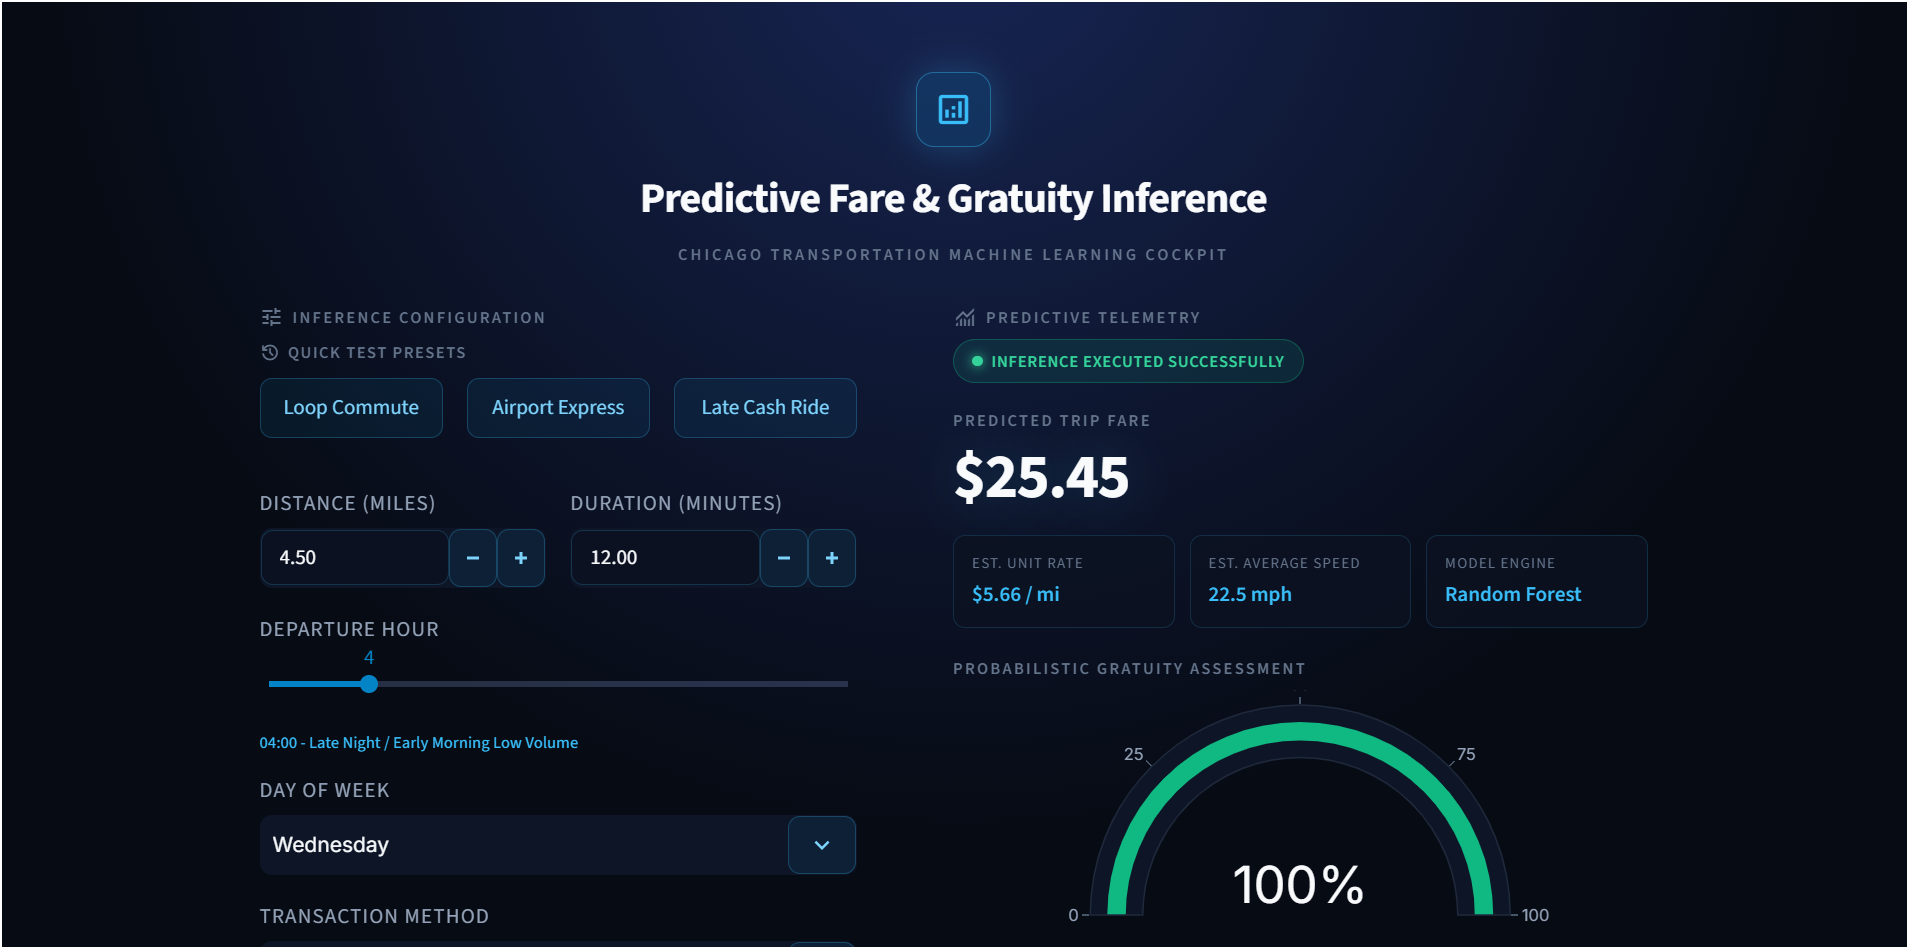
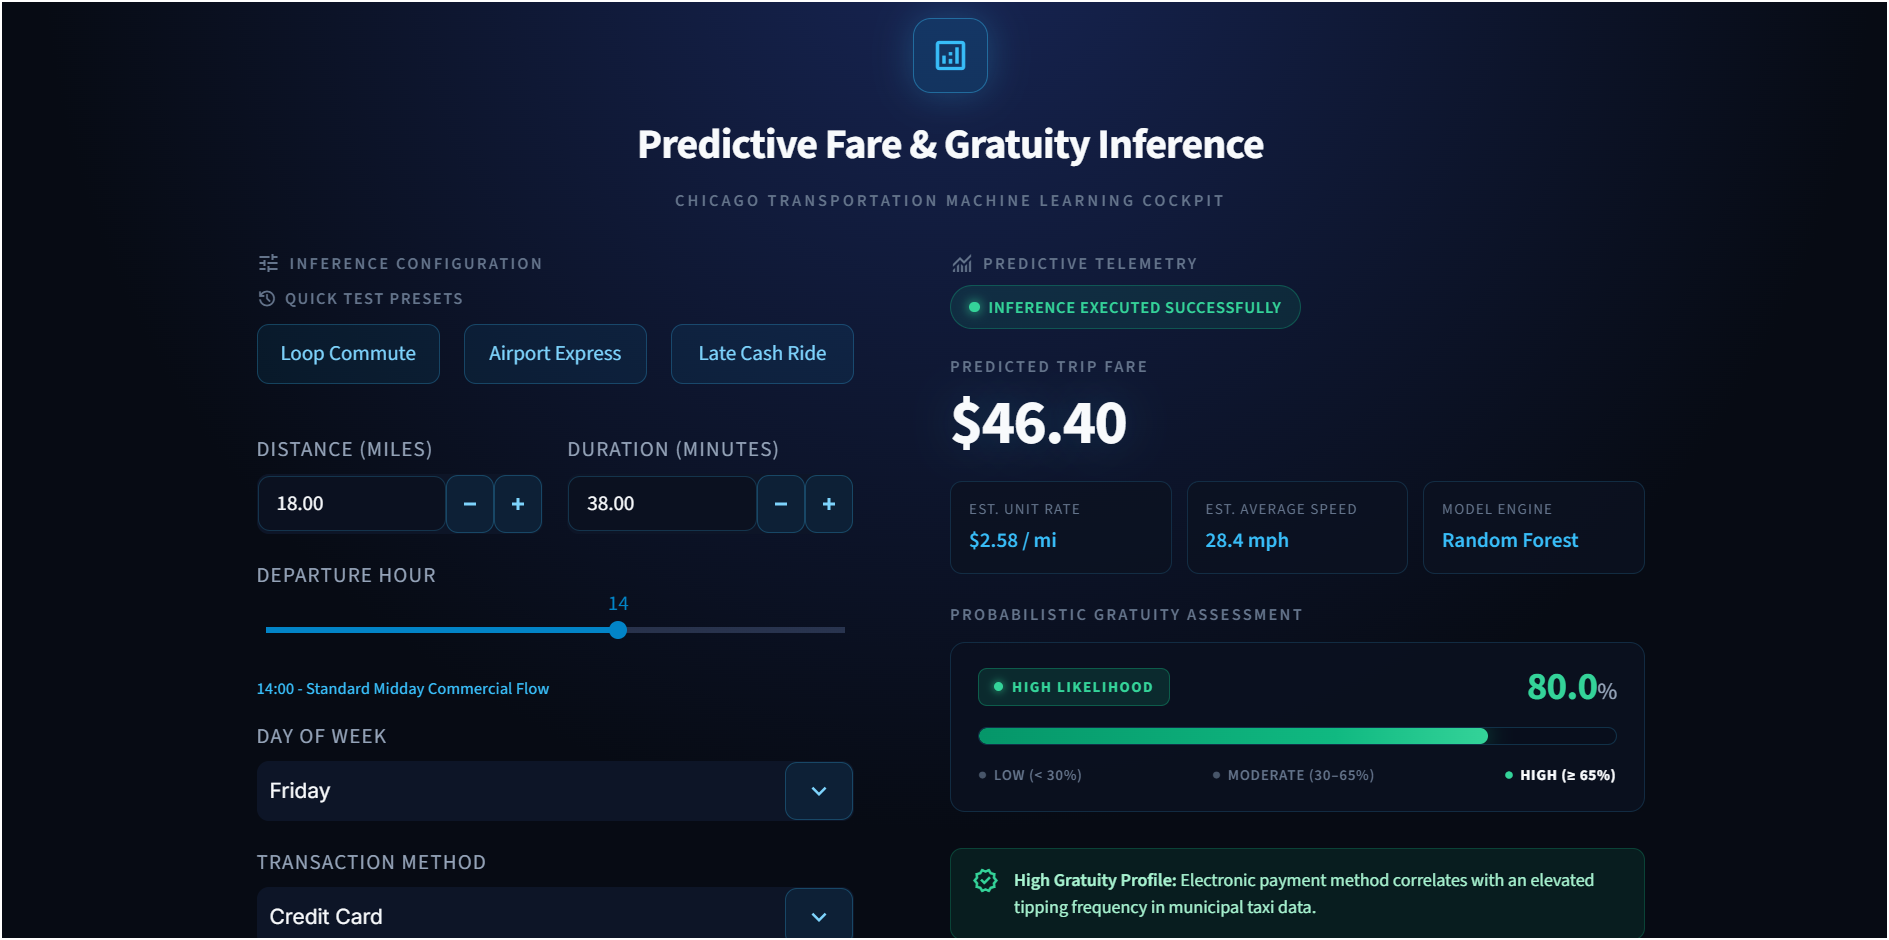
feat(ui): redesign gratuity confidence meter and update dashboard preview

diff --git a/.streamlit/app.py b/.streamlit/app.py
@@ -8,7 +8,7 @@ from pathlib import Path
 import streamlit as st
 import joblib
 import time
-import plotly.graph_objects as go
+import textwrap
 import warnings
 
 warnings.filterwarnings('ignore')
@@ -109,7 +109,7 @@ st.markdown("""
         font-weight: 600;
     }
 
-    /* Frosted Glass Cards with Vibrant Subtle Borders */
+    /* Frosted Glass Cards with Subtle Borders */
     div[data-testid="column"] > div {
         background: rgba(13, 21, 39, 0.85);
         border: 1px solid rgba(56, 189, 248, 0.2);
@@ -274,10 +274,110 @@ st.markdown("""
         box-shadow: 0 0 8px #34d399;
     }
 
+    /* Gratuity Confidence Meter Card */
+    .gratuity-card {
+        background: rgba(11, 17, 32, 0.85);
+        border: 1px solid rgba(56, 189, 248, 0.16);
+        border-radius: 10px;
+        padding: 16px 18px;
+        margin-top: 10px;
+        margin-bottom: 14px;
+    }
+
+    .gratuity-top-row {
+        display: flex;
+        justify-content: space-between;
+        align-items: center;
+        margin-bottom: 14px;
+    }
+
+    .gratuity-tier-tag {
+        font-size: 10px;
+        font-weight: 700;
+        letter-spacing: 1px;
+        padding: 4px 10px;
+        border-radius: 6px;
+        text-transform: uppercase;
+        display: inline-flex;
+        align-items: center;
+        gap: 6px;
+    }
+
+    .gratuity-tier-tag.high {
+        background: rgba(16, 185, 129, 0.15);
+        border: 1px solid rgba(16, 185, 129, 0.35);
+        color: #34d399;
+    }
+
+    .gratuity-tier-tag.moderate {
+        background: rgba(14, 165, 233, 0.15);
+        border: 1px solid rgba(56, 189, 248, 0.35);
+        color: #38bdf8;
+    }
+
+    .gratuity-tier-tag.low {
+        background: rgba(245, 158, 11, 0.15);
+        border: 1px solid rgba(245, 158, 11, 0.35);
+        color: #fbbf24;
+    }
+
+    .gratuity-score-large {
+        font-size: 26px;
+        font-weight: 700;
+        letter-spacing: -0.5px;
+        line-height: 1;
+    }
+
+    .meter-track-container {
+        width: 100%;
+        height: 12px;
+        background: #080e1c;
+        border: 1px solid rgba(56, 189, 248, 0.2);
+        border-radius: 999px;
+        overflow: hidden;
+        margin-top: 6px;
+        margin-bottom: 12px;
+        position: relative;
+    }
+
+    .meter-fill-bar {
+        height: 100%;
+        border-radius: 999px;
+        transition: width 0.5s ease-in-out;
+    }
+
+    .meter-tiers-row {
+        display: flex;
+        justify-content: space-between;
+        font-size: 10px;
+        color: #64748b;
+        font-weight: 600;
+        letter-spacing: 0.5px;
+        text-transform: uppercase;
+    }
+
+    .meter-tier-cell {
+        display: flex;
+        align-items: center;
+        gap: 4px;
+    }
+
+    .meter-tier-cell.active {
+        color: #f8fafc;
+        font-weight: 700;
+    }
+
+    .tier-indicator-dot {
+        width: 6px;
+        height: 6px;
+        border-radius: 50%;
+        display: inline-block;
+    }
+
     .insight-card {
         border-radius: 8px;
         padding: 12px 14px;
-        margin-top: 14px;
+        margin-top: 10px;
         display: flex;
         align-items: flex-start;
         gap: 10px;
@@ -437,21 +537,21 @@ with col2:
                 price_per_mile = predicted_fare / miles if miles > 0 else 0
                 est_speed_mph = (miles / (seconds / 3600)) if seconds > 0 else 0
 
-                st.markdown("""
+                st.markdown(textwrap.dedent("""
                 <div class="status-badge online">
                     <div class="status-dot"></div>
                     INFERENCE EXECUTED SUCCESSFULLY
                 </div>
-                """, unsafe_allow_html=True)
+                """).strip(), unsafe_allow_html=True)
 
                 # Base Fare Display
-                st.markdown(f"""
+                st.markdown(textwrap.dedent(f"""
                 <div class="output-label">Predicted Trip Fare</div>
                 <div class="output-value">${predicted_fare:.2f}</div>
-                """, unsafe_allow_html=True)
+                """).strip(), unsafe_allow_html=True)
 
                 # Telemetry Sub-Metrics
-                st.markdown(f"""
+                st.markdown(textwrap.dedent(f"""
                 <div class="telemetry-row">
                     <div class="telemetry-pill">
                         <div class="telemetry-pill-label">Est. Unit Rate</div>
@@ -466,116 +566,117 @@ with col2:
                         <div class="telemetry-pill-value">Random Forest</div>
                     </div>
                 </div>
-                """, unsafe_allow_html=True)
+                """).strip(), unsafe_allow_html=True)
 
-                # Gratuity Probability Gauge
-                st.markdown("<div class='output-label'>Probabilistic Gratuity Assessment</div>", unsafe_allow_html=True)
-                
-                # Dynamic gauge bar color according to prediction state
-                if payment_type == "Cash" or tip_prob < 15:
-                    bar_color = "#f59e0b" if payment_type == "Cash" else "#64748b"
+                # Gratuity Tier Classification and Styling
+                if payment_type == "Cash" or tip_prob < 20:
+                    tier_label = "Unlikely / Minimal"
+                    tier_class = "low"
+                    tier_color = "#fbbf24"
+                    fill_gradient = "linear-gradient(90deg, #d97706 0%, #f59e0b 100%)"
+                    glow_shadow = "0 0 14px rgba(245, 158, 11, 0.45)"
+                    active_idx = 0
                 elif tip_prob >= 65:
-                    bar_color = "#10b981"
+                    tier_label = "High Likelihood"
+                    tier_class = "high"
+                    tier_color = "#34d399"
+                    fill_gradient = "linear-gradient(90deg, #059669 0%, #10b981 70%, #34d399 100%)"
+                    glow_shadow = "0 0 16px rgba(16, 185, 129, 0.55)"
+                    active_idx = 2
                 else:
-                    bar_color = "#0284c7"
+                    tier_label = "Moderate Likelihood"
+                    tier_class = "moderate"
+                    tier_color = "#38bdf8"
+                    fill_gradient = "linear-gradient(90deg, #0284c7 0%, #38bdf8 100%)"
+                    glow_shadow = "0 0 14px rgba(56, 189, 248, 0.45)"
+                    active_idx = 1
 
-                fig = go.Figure(go.Indicator(
-                    mode="gauge+number",
-                    value=tip_prob,
-                    number={'suffix': "%", 'font': {'color': '#f8fafc', 'size': 34}},
-                    gauge={
-                        'axis': {
-                            'range': [0, 100], 
-                            'tickwidth': 1, 
-                            'tickcolor': "#475569", 
-                            'visible': True,
-                            'tickmode': 'array',
-                            'tickvals': [0, 25, 50, 75, 100],
-                            'tickfont': {'color': '#94a3b8', 'size': 11}
-                        },
-                        'bar': {'color': bar_color, 'thickness': 0.35},
-                        'bgcolor': "#0b1120",
-                        'borderwidth': 1,
-                        'bordercolor': "#1e293b",
-                        'steps': [
-                            {'range': [0, 100], 'color': 'rgba(15, 23, 42, 0.6)'}
-                        ]
-                    }
-                ))
-                
-                fig.update_layout(
-                    height=160, 
-                    margin=dict(l=10, r=10, t=10, b=10),
-                    paper_bgcolor="rgba(0,0,0,0)",
-                    font={'family': "Inter"}
-                )
-                
-                st.plotly_chart(fig, use_container_width=True, config={'displayModeBar': False})
+                fill_pct = max(min(tip_prob, 100.0), 3.0)
+
+                # Render HTML without markdown indentation issues
+                html_meter = f"""<div class="output-label">Probabilistic Gratuity Assessment</div>
+<div class="gratuity-card">
+<div class="gratuity-top-row">
+<div class="gratuity-tier-tag {tier_class}">
+<span class="tier-indicator-dot" style="background-color: {tier_color}; box-shadow: 0 0 6px {tier_color};"></span>
+{tier_label}
+</div>
+<div class="gratuity-score-large" style="color: {tier_color};">
+{tip_prob:.1f}<span style="font-size: 16px; font-weight: 500; color: #94a3b8;">%</span>
+</div>
+</div>
+<div class="meter-track-container">
+<div class="meter-fill-bar" style="width: {fill_pct:.1f}%; background: {fill_gradient}; box-shadow: {glow_shadow};"></div>
+</div>
+<div class="meter-tiers-row">
+<span class="meter-tier-cell {'active' if active_idx == 0 else ''}">
+<span style="color: {'#fbbf24' if active_idx == 0 else '#475569'};">●</span> Low (&lt; 30%)
+</span>
+<span class="meter-tier-cell {'active' if active_idx == 1 else ''}">
+<span style="color: {'#38bdf8' if active_idx == 1 else '#475569'};">●</span> Moderate (30–65%)
+</span>
+<span class="meter-tier-cell {'active' if active_idx == 2 else ''}">
+<span style="color: {'#34d399' if active_idx == 2 else '#475569'};">●</span> High (≥ 65%)
+</span>
+</div>
+</div>"""
+
+                st.markdown(html_meter, unsafe_allow_html=True)
 
                 # Behavioral Gratuity Insights
                 if payment_type == "Credit Card" and tip_prob >= 60:
-                    st.markdown("""
-                    <div class="insight-card tip-high">
-                        <span class="material-symbols-outlined" style="color: #34d399; font-size: 18px;">verified</span>
-                        <div><strong>High Gratuity Profile:</strong> Electronic payment method correlates with an elevated tipping frequency in municipal taxi data.</div>
-                    </div>
-                    """, unsafe_allow_html=True)
+                    st.markdown("""<div class="insight-card tip-high">
+<span class="material-symbols-outlined" style="color: #34d399; font-size: 18px;">verified</span>
+<div><strong>High Gratuity Profile:</strong> Electronic payment method correlates with an elevated tipping frequency in municipal taxi data.</div>
+</div>""", unsafe_allow_html=True)
                 elif payment_type == "Cash":
-                    st.markdown("""
-                    <div class="insight-card tip-low">
-                        <span class="material-symbols-outlined" style="color: #fbbf24; font-size: 18px;">payments</span>
-                        <div><strong>Cash Payment Notice:</strong> Gratuities on cash transactions are rarely captured in registry telemetry or have lower recorded rates.</div>
-                    </div>
-                    """, unsafe_allow_html=True)
+                    st.markdown("""<div class="insight-card tip-low">
+<span class="material-symbols-outlined" style="color: #fbbf24; font-size: 18px;">payments</span>
+<div><strong>Cash Payment Notice:</strong> Gratuities on cash transactions are rarely captured in registry telemetry or have lower recorded rates.</div>
+</div>""", unsafe_allow_html=True)
                 else:
-                    st.markdown("""
-                    <div class="insight-card tip-low">
-                        <span class="material-symbols-outlined" style="color: #94a3b8; font-size: 18px;">info</span>
-                        <div><strong>Standard Gratuity Profile:</strong> Moderate tip probability influenced by baseline distance and time of day.</div>
-                    </div>
-                    """, unsafe_allow_html=True)
+                    st.markdown("""<div class="insight-card tip-low">
+<span class="material-symbols-outlined" style="color: #94a3b8; font-size: 18px;">info</span>
+<div><strong>Standard Gratuity Profile:</strong> Moderate tip probability influenced by baseline distance and time of day.</div>
+</div>""", unsafe_allow_html=True)
 
         else:
             # Clean Idle State: Model Telemetry and System Specifications
-            st.markdown("""
-            <div class="status-badge online">
-                <div class="status-dot"></div>
-                SYSTEM READY - AWAITING PARAMETERS
-            </div>
-            
-            <div style="font-size: 13px; color: #94a3b8; margin-bottom: 22px; line-height: 1.6;">
-                Configure the route variables on the left panel or choose one of the predefined trip presets, then click <strong>Execute Model Inference</strong> to generate real-time fare estimations and gratuity analytics.
-            </div>
-
-            <div class="output-label">SYSTEM & BENCHMARK TELEMETRY</div>
-            <div class="telemetry-row">
-                <div class="telemetry-pill">
-                    <div class="telemetry-pill-label">Inference Engine</div>
-                    <div class="telemetry-pill-value">Dual RF</div>
-                </div>
-                <div class="telemetry-pill">
-                    <div class="telemetry-pill-label">Target Metric</div>
-                    <div class="telemetry-pill-value">MAE $2.78</div>
-                </div>
-                <div class="telemetry-pill">
-                    <div class="telemetry-pill-label">Tip Accuracy</div>
-                    <div class="telemetry-pill-value">94.0%</div>
-                </div>
-            </div>
-
-            <div class="output-label" style="margin-top: 18px;">HISTORICAL CITY BENCHMARKS</div>
-            <div style="background: rgba(11, 17, 32, 0.7); border: 1px solid rgba(56, 189, 248, 0.16); border-radius: 10px; padding: 14px 18px;">
-                <div style="display: flex; justify-content: space-between; padding: 8px 0; border-bottom: 1px solid rgba(148, 163, 184, 0.08); font-size: 13px;">
-                    <span style="color: #94a3b8;">Average Chicago Trip Fare</span>
-                    <span style="color: #f8fafc; font-weight: 600;">$14.85</span>
-                </div>
-                <div style="display: flex; justify-content: space-between; padding: 8px 0; border-bottom: 1px solid rgba(148, 163, 184, 0.08); font-size: 13px;">
-                    <span style="color: #94a3b8;">Credit Card Tipping Frequency</span>
-                    <span style="color: #38bdf8; font-weight: 600;">76.4%</span>
-                </div>
-                <div style="display: flex; justify-content: space-between; padding: 8px 0; font-size: 13px;">
-                    <span style="color: #94a3b8;">Average Urban Speed</span>
-                    <span style="color: #f8fafc; font-weight: 600;">18.2 mph</span>
-                </div>
-            </div>
-            """, unsafe_allow_html=True)
+            idle_html = """<div class="status-badge online">
+<div class="status-dot"></div>
+SYSTEM READY - AWAITING PARAMETERS
+</div>
+<div style="font-size: 13px; color: #94a3b8; margin-bottom: 22px; line-height: 1.6;">
+Configure the route variables on the left panel or choose one of the predefined trip presets, then click <strong>Execute Model Inference</strong> to generate real-time fare estimations and gratuity analytics.
+</div>
+<div class="output-label">SYSTEM & BENCHMARK TELEMETRY</div>
+<div class="telemetry-row">
+<div class="telemetry-pill">
+<div class="telemetry-pill-label">Inference Engine</div>
+<div class="telemetry-pill-value">Dual RF</div>
+</div>
+<div class="telemetry-pill">
+<div class="telemetry-pill-label">Target Metric</div>
+<div class="telemetry-pill-value">MAE $2.78</div>
+</div>
+<div class="telemetry-pill">
+<div class="telemetry-pill-label">Tip Accuracy</div>
+<div class="telemetry-pill-value">94.0%</div>
+</div>
+</div>
+<div class="output-label" style="margin-top: 18px;">HISTORICAL CITY BENCHMARKS</div>
+<div style="background: rgba(11, 17, 32, 0.7); border: 1px solid rgba(56, 189, 248, 0.16); border-radius: 10px; padding: 14px 18px;">
+<div style="display: flex; justify-content: space-between; padding: 8px 0; border-bottom: 1px solid rgba(148, 163, 184, 0.08); font-size: 13px;">
+<span style="color: #94a3b8;">Average Chicago Trip Fare</span>
+<span style="color: #f8fafc; font-weight: 600;">$14.85</span>
+</div>
+<div style="display: flex; justify-content: space-between; padding: 8px 0; border-bottom: 1px solid rgba(148, 163, 184, 0.08); font-size: 13px;">
+<span style="color: #94a3b8;">Credit Card Tipping Frequency</span>
+<span style="color: #38bdf8; font-weight: 600;">76.4%</span>
+</div>
+<div style="display: flex; justify-content: space-between; padding: 8px 0; font-size: 13px;">
+<span style="color: #94a3b8;">Average Urban Speed</span>
+<span style="color: #f8fafc; font-weight: 600;">18.2 mph</span>
+</div>
+</div>"""
+            st.markdown(idle_html, unsafe_allow_html=True)
